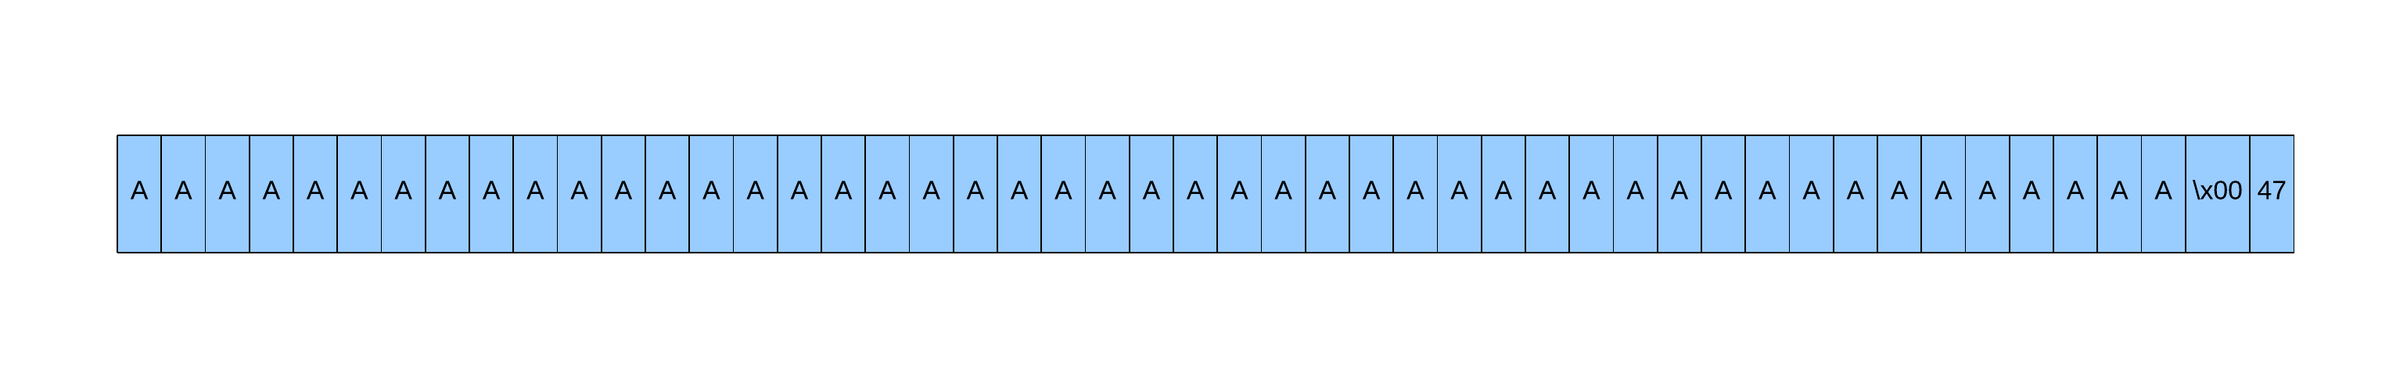
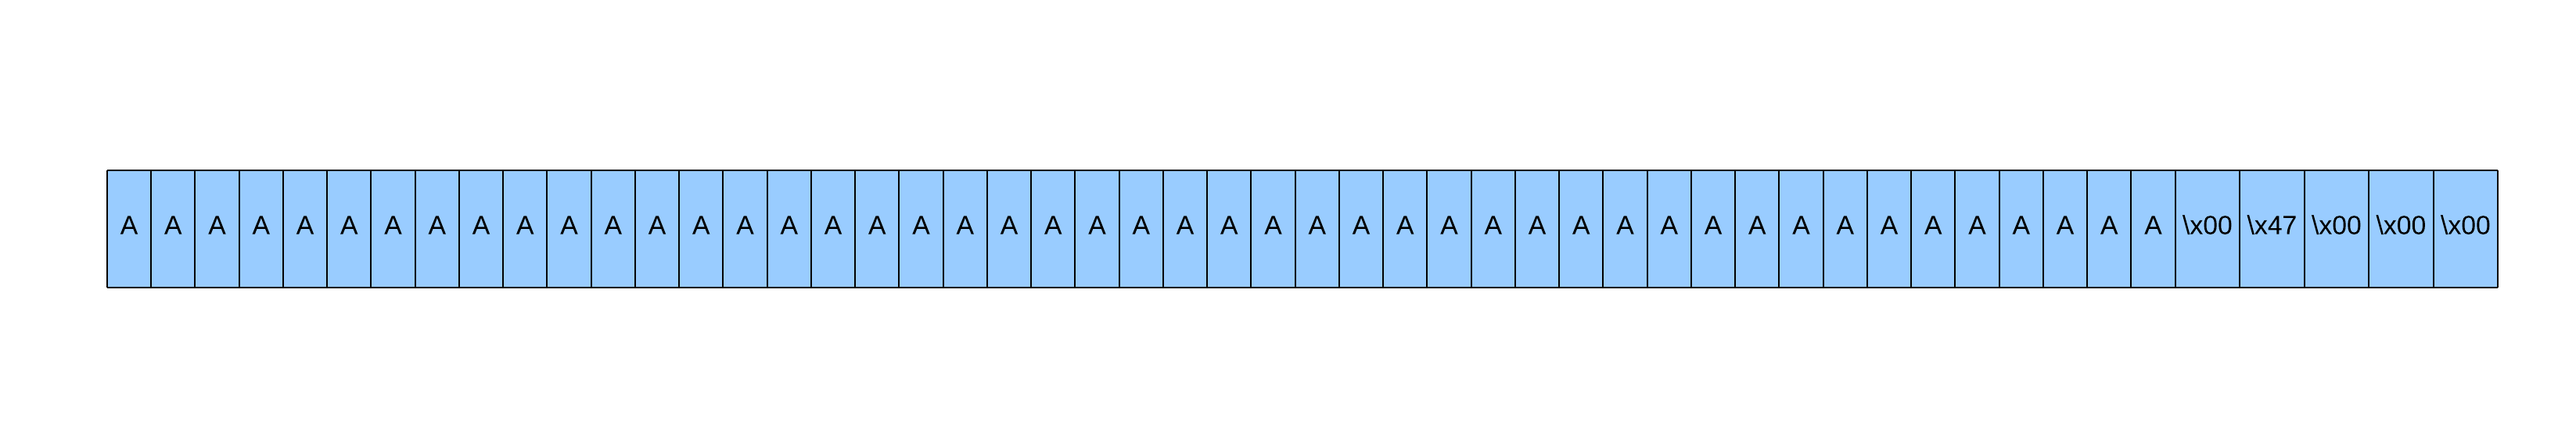
.

diff --git a/pwn/pwnabletw/silver_bullet/README.md b/pwn/pwnabletw/silver_bullet/README.md
@@ -323,5 +323,6 @@ And the old_lenght is updated:
 old_bullet_desc[48] = old_len + new_len;
 ```
 
-![](img/bullet_desc2.png)
+Leaving the final bullet_desc in such state:
 
+![](img/bullet_desc2.png)
